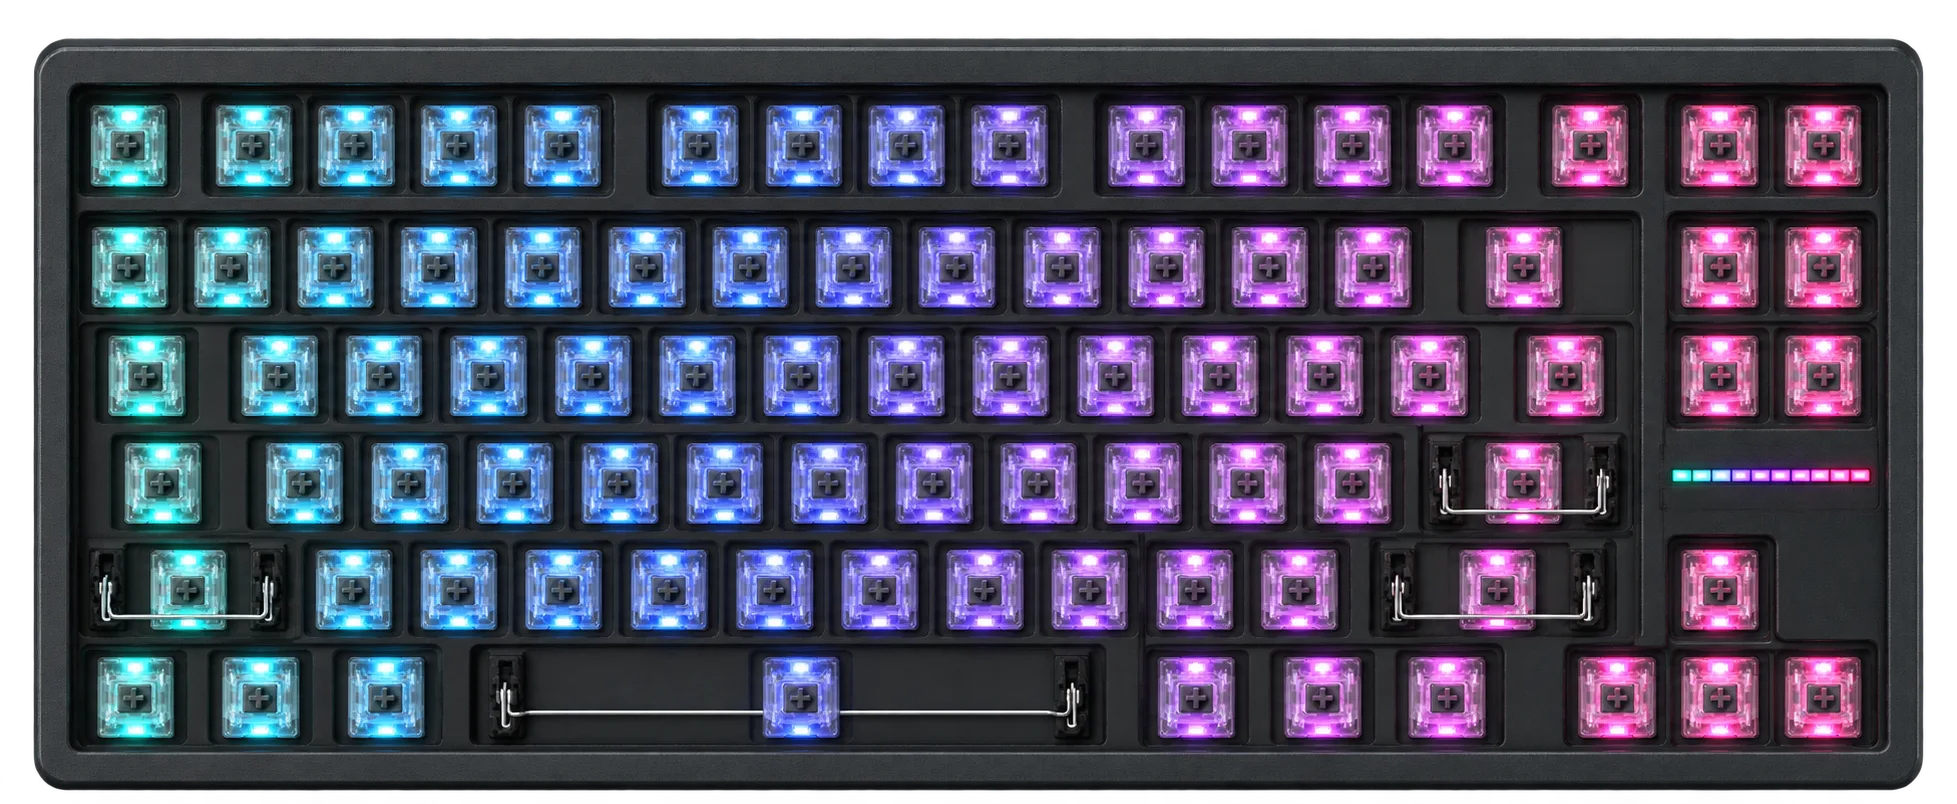
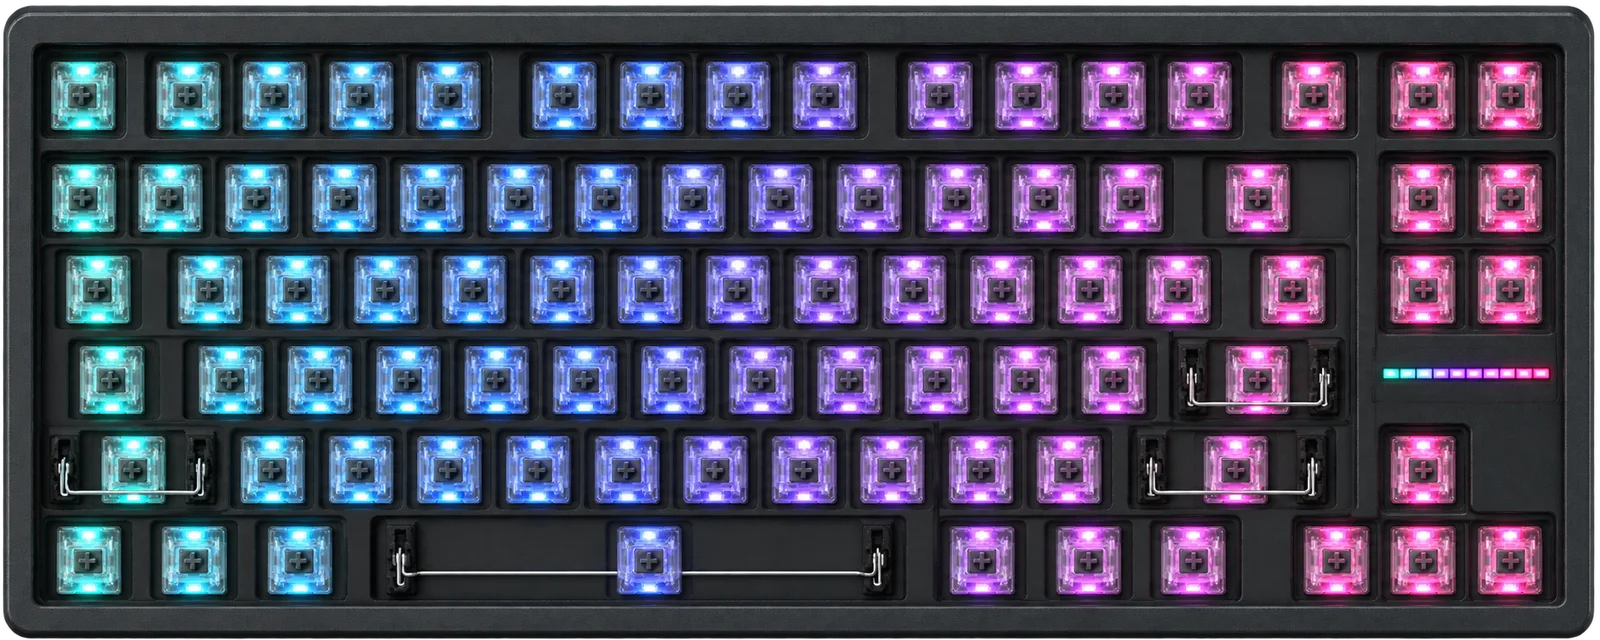
feat(fe): 키캡 피팅룸 키보드 3종 — Wooting 80HE(블랙·민트 스위치) · Keychron Q1 Max · Q2 Max
- public/assets/keyboards/assembly/boards.json 의 사진별 키캡 자리 좌표 사용, 사진은 키보드 부분만 잘라 webp
- 모델을 바꿔도 같은 자리의 키캡은 그대로 옮김

diff --git a/data/keyboards.ts b/data/keyboards.ts
@@ -1,13 +1,14 @@
 // 키캡 피팅룸 키보드 — 키캡을 뺀 RGB 스위치 사진 위에 키캡을 끼운다.
-// 좌표는 사진(1957×804) 기준 — public/assets/keyboards/wooting-80he-ansi/preview-layered.js 의 사진용 좌표와 같음 (1u = 104px)
+// 좌표: public/assets/keyboards/assembly/boards.json 의 키캡 자리(rect)를 사진 잘라낸 영역(crop) 기준 px로 옮김.
+// 공식 외형·ANSI 배열을 참고한 AI 재현 사진이라 실제 장착 치수가 아니에요.
 
 export interface KeyboardKey {
   id: string;
   label: string;
-  /** 키 칸의 왼쪽 위(px)와 너비(u) */
-  x: number;
-  y: number;
+  /** 키캡 너비(u) — 끼우기 규칙에 사용 */
   w: number;
+  /** 사진 안 키캡 자리 [x, y, 너비, 높이] (px) */
+  rect: [number, number, number, number];
 }
 
 export interface KeyboardSwitch { id: string; label: string; image: string; }
@@ -15,48 +16,133 @@ export interface KeyboardSwitch { id: string; label: string; image: string; }
 export interface KeyboardModel {
   id: string;
   name: string;
+  variant: string;
+  /** 잘라낸 사진 크기 (px) — rect의 기준 */
   width: number;
   height: number;
-  /** 1u 칸 크기와, 칸 안에서 키캡까지의 여백 */
-  unitPx: number;
-  insetPx: number;
   switches: KeyboardSwitch[];
   keys: KeyboardKey[];
 }
 
-const U = 104;
-const keys: KeyboardKey[] = [];
-const add = (id: string, label: string, x: number, y: number, w = 1) => keys.push({ id, label, x, y, w });
-/** 한 줄을 왼쪽(79px)부터 차례로 — [id, 각인, 너비] */
-const row = (y: number, items: [string, string, number][]) => {
-  let x = 79;
-  for (const [id, label, w] of items) { add(id, label, x, y, w); x += w * U; }
-};
+type RawKey = [string, string, number, number, number, number, number];
+const keys = (raw: RawKey[]): KeyboardKey[] => raw.map(([id, label, w, x, y, rw, rh]) => ({ id, label, w, rect: [x, y, rw, rh] }));
 
-add("Escape", "Esc", 79, 94);
-[201, 305, 409, 513, 648, 752, 856, 960, 1094, 1198, 1302, 1406].forEach((x, i) => add(`F${i + 1}`, `F${i + 1}`, x, 94));
-add("Mode", "Mode", 1540, 94); add("PrintScreen", "PrtSc", 1668, 94); add("Pause", "Pause", 1772, 94);
-row(216, [["Backquote", "`", 1], ...["1", "2", "3", "4", "5", "6", "7", "8", "9", "0"].map((d): [string, string, number] => [`Digit${d}`, d, 1]), ["Minus", "−", 1], ["Equal", "=", 1], ["Backspace", "Backspace", 2]]);
-row(320, [["Tab", "Tab", 1.5], ...[..."QWERTYUIOP"].map((c): [string, string, number] => [`Key${c}`, c, 1]), ["BracketLeft", "[", 1], ["BracketRight", "]", 1], ["Backslash", "\\", 1.5]]);
-row(424, [["CapsLock", "Caps", 1.75], ...[..."ASDFGHJKL"].map((c): [string, string, number] => [`Key${c}`, c, 1]), ["Semicolon", ";", 1], ["Quote", "'", 1], ["Enter", "Enter", 2.25]]);
-row(528, [["ShiftLeft", "Shift", 2.25], ...[..."ZXCVBNM"].map((c): [string, string, number] => [`Key${c}`, c, 1]), ["Comma", ",", 1], ["Period", ".", 1], ["Slash", "/", 1], ["ShiftRight", "Shift", 2.75]]);
-row(632, [["ControlLeft", "Ctrl", 1.25], ["MetaLeft", "Win", 1.25], ["AltLeft", "Alt", 1.25], ["Space", "", 6.25], ["AltRight", "Alt", 1.25], ["ControlRight", "Ctrl", 1.25], ["Fn", "Fn", 1.25]]);
-add("Insert", "Ins", 1668, 216); add("PageUp", "PgUp", 1772, 216); add("Delete", "Del", 1668, 320); add("PageDown", "PgDn", 1772, 320);
-add("ArrowUp", "↑", 1668, 528); add("ArrowLeft", "←", 1558, 632); add("ArrowDown", "↓", 1668, 632); add("ArrowRight", "→", 1772, 632);
-
-export const WOOTING_80HE: KeyboardModel = {
-  id: "wooting-80he-ansi",
-  name: "Wooting 80HE",
-  width: 1957,
-  height: 804,
-  unitPx: U,
-  insetPx: 3,
-  switches: [
-    { id: "black", label: "블랙 스위치", image: "/images/keyboards/wooting-80he-black.webp" },
-    { id: "mint", label: "민트 스위치", image: "/images/keyboards/wooting-80he-mint.webp" },
-  ],
-  keys,
-};
+export const KEYBOARDS: KeyboardModel[] = [
+  {
+    id: "wooting-80he",
+    name: "Wooting 80HE",
+    variant: "ANSI · 84키",
+    width: 1900,
+    height: 760,
+    switches: [{ id: "black", label: "블랙 스위치", image: "/images/keyboards/wooting-80he-black.webp" }, { id: "mint", label: "민트 스위치", image: "/images/keyboards/wooting-80he-mint.webp" }],
+    keys: keys([
+    ["Escape", "Esc", 1, 52.2, 67, 94, 94], ["F1", "F1", 1, 182.8, 67, 94, 94], ["F2", "F2", 1, 287.4, 67, 94, 94], ["F3", "F3", 1, 391.9, 67, 94, 94],
+    ["F4", "F4", 1, 496.4, 67, 94, 94], ["F5", "F5", 1, 627, 67, 94, 94], ["F6", "F6", 1, 731.5, 67, 94, 94], ["F7", "F7", 1, 836, 67, 94, 94],
+    ["F8", "F8", 1, 940.5, 67, 94, 94], ["F9", "F9", 1, 1071.1, 67, 94, 94], ["F10", "F10", 1, 1175.6, 67, 94, 94],
+    ["F11", "F11", 1, 1280.1, 67, 94, 94], ["F12", "F12", 1, 1384.6, 67, 94, 94], ["Mode", "Mode", 1, 1515.2, 67, 94, 94],
+    ["PrintScreen", "PrtSc", 1, 1645.8, 67, 94, 94], ["Pause", "Pause", 1, 1750.3, 67, 94, 94], ["Backquote", "`", 1, 52.2, 186, 94, 94],
+    ["Digit1", "1", 1, 156.7, 186, 94, 94], ["Digit2", "2", 1, 261.2, 186, 94, 94], ["Digit3", "3", 1, 365.7, 186, 94, 94],
+    ["Digit4", "4", 1, 470.2, 186, 94, 94], ["Digit5", "5", 1, 574.7, 186, 94, 94], ["Digit6", "6", 1, 679.2, 186, 94, 94],
+    ["Digit7", "7", 1, 783.7, 186, 94, 94], ["Digit8", "8", 1, 888.2, 186, 94, 94], ["Digit9", "9", 1, 992.7, 186, 94, 94],
+    ["Digit0", "0", 1, 1097.2, 186, 94, 94], ["Minus", "−", 1, 1201.7, 186, 94, 94], ["Equal", "=", 1, 1306.2, 186, 94, 94],
+    ["Backspace", "Backspace", 2, 1410.7, 186, 198.5, 94], ["Tab", "Tab", 1.5, 52.2, 297, 146.3, 94], ["KeyQ", "Q", 1, 209, 297, 94, 94],
+    ["KeyW", "W", 1, 313.5, 297, 94, 94], ["KeyE", "E", 1, 418, 297, 94, 94], ["KeyR", "R", 1, 522.5, 297, 94, 94], ["KeyT", "T", 1, 627, 297, 94, 94],
+    ["KeyY", "Y", 1, 731.5, 297, 94, 94], ["KeyU", "U", 1, 836, 297, 94, 94], ["KeyI", "I", 1, 940.5, 297, 94, 94],
+    ["KeyO", "O", 1, 1045, 297, 94, 94], ["KeyP", "P", 1, 1149.5, 297, 94, 94], ["BracketLeft", "[", 1, 1254, 297, 94, 94],
+    ["BracketRight", "]", 1, 1358.5, 297, 94, 94], ["Backslash", "\\", 1.5, 1463, 297, 146.3, 94], ["CapsLock", "Caps", 1.75, 52.2, 405, 172.4, 94],
+    ["KeyA", "A", 1, 235.1, 405, 94, 94], ["KeyS", "S", 1, 339.6, 405, 94, 94], ["KeyD", "D", 1, 444.1, 405, 94, 94],
+    ["KeyF", "F", 1, 548.6, 405, 94, 94], ["KeyG", "G", 1, 653.1, 405, 94, 94], ["KeyH", "H", 1, 757.6, 405, 94, 94],
+    ["KeyJ", "J", 1, 862.1, 405, 94, 94], ["KeyK", "K", 1, 966.6, 405, 94, 94], ["KeyL", "L", 1, 1071.1, 405, 94, 94],
+    ["Semicolon", ";", 1, 1175.6, 405, 94, 94], ["Quote", "'", 1, 1280.1, 405, 94, 94], ["Enter", "Enter", 2.25, 1384.6, 405, 224.7, 94],
+    ["ShiftLeft", "Shift", 2.25, 52.2, 511, 224.7, 94], ["KeyZ", "Z", 1, 287.4, 511, 94, 94], ["KeyX", "X", 1, 391.9, 511, 94, 94],
+    ["KeyC", "C", 1, 496.4, 511, 94, 94], ["KeyV", "V", 1, 600.9, 511, 94, 94], ["KeyB", "B", 1, 705.4, 511, 94, 94],
+    ["KeyN", "N", 1, 809.9, 511, 94, 94], ["KeyM", "M", 1, 914.4, 511, 94, 94], ["Comma", ",", 1, 1018.8, 511, 94, 94],
+    ["Period", ".", 1, 1123.3, 511, 94, 94], ["Slash", "/", 1, 1227.8, 511, 94, 94], ["ShiftRight", "Shift", 2.75, 1332.3, 511, 276.9, 94],
+    ["ControlLeft", "Ctrl", 1.25, 52.2, 618, 120.2, 94], ["MetaLeft", "Win", 1.25, 182.8, 618, 120.2, 94],
+    ["AltLeft", "Alt", 1.25, 313.5, 618, 120.2, 94], ["Space", "Space", 6.25, 444.1, 618, 642.7, 94],
+    ["AltRight", "Alt", 1.25, 1097.2, 618, 120.2, 94], ["ControlRight", "Ctrl", 1.25, 1227.8, 618, 120.2, 94],
+    ["Fn", "Fn", 1.25, 1358.5, 618, 120.2, 94], ["Insert", "Ins", 1, 1645.8, 186, 94, 94], ["PageUp", "PgUp", 1, 1750.3, 186, 94, 94],
+    ["Delete", "Del", 1, 1645.8, 297, 94, 94], ["PageDown", "PgDn", 1, 1750.3, 297, 94, 94], ["ArrowUp", "↑", 1, 1645.8, 511, 94, 94],
+    ["ArrowLeft", "←", 1, 1541.3, 618, 94, 94], ["ArrowDown", "↓", 1, 1645.8, 618, 94, 94], ["ArrowRight", "→", 1, 1750.3, 618, 94, 94],
+    ]),
+  },
+  {
+    id: "keychron-q1-max",
+    name: "Keychron Q1 Max",
+    variant: "ANSI · 81키 + 노브",
+    width: 1368,
+    height: 612,
+    switches: [{ id: "default", label: "기본", image: "/images/keyboards/keychron-q1-max.webp" }],
+    keys: keys([
+    ["Backquote", "`", 1, 38.9, 162.4, 71.1, 71.1], ["Digit1", "1", 1, 117.9, 162.4, 71.1, 71.1], ["Digit2", "2", 1, 196.9, 162.4, 71.1, 71.1],
+    ["Digit3", "3", 1, 275.9, 162.4, 71.1, 71.1], ["Digit4", "4", 1, 354.9, 162.4, 71.1, 71.1], ["Digit5", "5", 1, 433.9, 162.4, 71.1, 71.1],
+    ["Digit6", "6", 1, 513, 162.4, 71.1, 71.1], ["Digit7", "7", 1, 592, 162.4, 71.1, 71.1], ["Digit8", "8", 1, 671, 162.4, 71.1, 71.1],
+    ["Digit9", "9", 1, 750, 162.4, 71.1, 71.1], ["Digit0", "0", 1, 829, 162.4, 71.1, 71.1], ["Minus", "−", 1, 908, 162.4, 71.1, 71.1],
+    ["Equal", "=", 1, 987, 162.4, 71.1, 71.1], ["Backspace", "Backspace", 2, 1066, 162.4, 150.1, 71.1], ["Tab", "Tab", 1.5, 39, 241.4, 110.6, 71.1],
+    ["KeyQ", "Q", 1, 157.4, 241.4, 71.1, 71.1], ["KeyW", "W", 1, 236.4, 241.4, 71.1, 71.1], ["KeyE", "E", 1, 315.4, 241.4, 71.1, 71.1],
+    ["KeyR", "R", 1, 394.4, 241.4, 71.1, 71.1], ["KeyT", "T", 1, 473.5, 241.4, 71.1, 71.1], ["KeyY", "Y", 1, 552.5, 241.4, 71.1, 71.1],
+    ["KeyU", "U", 1, 631.5, 241.4, 71.1, 71.1], ["KeyI", "I", 1, 710.5, 241.4, 71.1, 71.1], ["KeyO", "O", 1, 789.5, 241.4, 71.1, 71.1],
+    ["KeyP", "P", 1, 868.5, 241.4, 71.1, 71.1], ["BracketLeft", "[", 1, 947.5, 241.4, 71.1, 71.1], ["BracketRight", "]", 1, 1026.5, 241.4, 71.1, 71.1],
+    ["Backslash", "\\", 1.5, 1105.5, 241.4, 110.6, 71.1], ["CapsLock", "Caps", 1.75, 39, 319.5, 130.3, 71.1],
+    ["KeyA", "A", 1, 177.2, 319.5, 71.1, 71.1], ["KeyS", "S", 1, 256.2, 319.5, 71.1, 71.1], ["KeyD", "D", 1, 335.2, 319.5, 71.1, 71.1],
+    ["KeyF", "F", 1, 414.2, 319.5, 71.1, 71.1], ["KeyG", "G", 1, 493.2, 319.5, 71.1, 71.1], ["KeyH", "H", 1, 572.2, 319.5, 71.1, 71.1],
+    ["KeyJ", "J", 1, 651.2, 319.5, 71.1, 71.1], ["KeyK", "K", 1, 730.2, 319.5, 71.1, 71.1], ["KeyL", "L", 1, 809.2, 319.5, 71.1, 71.1],
+    ["Semicolon", ";", 1, 888.2, 319.5, 71.1, 71.1], ["Quote", "'", 1, 967.2, 319.5, 71.1, 71.1], ["Enter", "Enter", 2.25, 1046.2, 319.5, 169.8, 71.1],
+    ["ShiftLeft", "Shift", 2.25, 39, 399.5, 169.8, 71.1], ["KeyZ", "Z", 1, 216.7, 399.5, 71.1, 71.1], ["KeyX", "X", 1, 295.7, 399.5, 71.1, 71.1],
+    ["KeyC", "C", 1, 374.7, 399.5, 71.1, 71.1], ["KeyV", "V", 1, 453.7, 399.5, 71.1, 71.1], ["KeyB", "B", 1, 532.7, 399.5, 71.1, 71.1],
+    ["KeyN", "N", 1, 611.7, 399.5, 71.1, 71.1], ["KeyM", "M", 1, 690.7, 399.5, 71.1, 71.1], ["Comma", ",", 1, 769.7, 399.5, 71.1, 71.1],
+    ["Period", ".", 1, 848.7, 399.5, 71.1, 71.1], ["Slash", "/", 1, 927.7, 399.5, 71.1, 71.1],
+    ["ShiftRight", "Shift", 1.75, 1006.7, 399.5, 130.3, 71.1], ["Escape", "Esc", 1, 38.9, 59.4, 71.1, 71.1], ["F1", "F1", 1, 137.7, 59.4, 71.1, 71.1],
+    ["F2", "F2", 1, 216.7, 59.4, 71.1, 71.1], ["F3", "F3", 1, 295.7, 59.4, 71.1, 71.1], ["F4", "F4", 1, 374.7, 59.4, 71.1, 71.1],
+    ["F5", "F5", 1, 473.5, 59.4, 71.1, 71.1], ["F6", "F6", 1, 552.5, 59.4, 71.1, 71.1], ["F7", "F7", 1, 631.5, 59.4, 71.1, 71.1],
+    ["F8", "F8", 1, 710.5, 59.4, 71.1, 71.1], ["F9", "F9", 1, 809.2, 59.4, 71.1, 71.1], ["F10", "F10", 1, 888.2, 59.4, 71.1, 71.1],
+    ["F11", "F11", 1, 967.2, 59.4, 71.1, 71.1], ["F12", "F12", 1, 1046.2, 59.4, 71.1, 71.1], ["Delete", "Del", 1, 1145, 59.4, 71.1, 71.1],
+    ["PageUp", "PgUp", 1, 1250.5, 162.4, 71.1, 71.1], ["PageDown", "PgDn", 1, 1250.5, 241.4, 71.1, 71.1],
+    ["Home", "Home", 1, 1250.5, 319.5, 71.1, 71.1], ["ControlLeft", "Ctrl", 1.25, 39, 478.5, 90.8, 71.1],
+    ["MetaLeft", "Win", 1.25, 137.7, 478.5, 90.8, 71.1], ["AltLeft", "Alt", 1.25, 236.4, 478.5, 90.8, 71.1],
+    ["Space", "Space", 6.25, 335.2, 478.5, 485.9, 71.1], ["AltRight", "Alt", 1, 829, 478.5, 71.1, 71.1], ["Fn", "Fn", 1, 908, 478.5, 71.1, 71.1],
+    ["ControlRight", "Ctrl", 1, 987, 478.5, 71.1, 71.1], ["ArrowUp", "↑", 1, 1170.5, 424.5, 71.1, 71.1],
+    ["ArrowLeft", "←", 1, 1091.5, 499.5, 71.1, 71.1], ["ArrowDown", "↓", 1, 1170.5, 499.5, 71.1, 71.1],
+    ["ArrowRight", "→", 1, 1249.5, 499.5, 71.1, 71.1],
+    ]),
+  },
+  {
+    id: "keychron-q2-max",
+    name: "Keychron Q2 Max",
+    variant: "ANSI · 66키 + 노브",
+    width: 1684,
+    height: 636,
+    switches: [{ id: "default", label: "기본", image: "/images/keyboards/keychron-q2-max.webp" }],
+    keys: keys([
+    ["Escape", "Esc", 1, 57.8, 75.6, 86.9, 86.9], ["Digit1", "1", 1, 154.3, 75.6, 86.9, 86.9], ["Digit2", "2", 1, 250.8, 75.6, 86.9, 86.9],
+    ["Digit3", "3", 1, 347.3, 75.6, 86.9, 86.9], ["Digit4", "4", 1, 443.8, 75.6, 86.9, 86.9], ["Digit5", "5", 1, 540.3, 75.6, 86.9, 86.9],
+    ["Digit6", "6", 1, 636.8, 75.6, 86.9, 86.9], ["Digit7", "7", 1, 733.3, 75.6, 86.9, 86.9], ["Digit8", "8", 1, 829.8, 75.6, 86.9, 86.9],
+    ["Digit9", "9", 1, 926.3, 75.6, 86.9, 86.9], ["Digit0", "0", 1, 1022.8, 75.6, 86.9, 86.9], ["Minus", "−", 1, 1119.3, 75.6, 86.9, 86.9],
+    ["Equal", "=", 1, 1215.8, 75.6, 86.9, 86.9], ["Backspace", "Backspace", 2, 1312.3, 75.6, 183.3, 86.9],
+    ["Tab", "Tab", 1.5, 57.8, 174.6, 135.1, 86.9], ["KeyQ", "Q", 1, 202.6, 174.6, 86.9, 86.9], ["KeyW", "W", 1, 299.1, 174.6, 86.9, 86.9],
+    ["KeyE", "E", 1, 395.6, 174.6, 86.9, 86.9], ["KeyR", "R", 1, 492.1, 174.6, 86.9, 86.9], ["KeyT", "T", 1, 588.6, 174.6, 86.9, 86.9],
+    ["KeyY", "Y", 1, 685.1, 174.6, 86.9, 86.9], ["KeyU", "U", 1, 781.6, 174.6, 86.9, 86.9], ["KeyI", "I", 1, 878.1, 174.6, 86.9, 86.9],
+    ["KeyO", "O", 1, 974.6, 174.6, 86.9, 86.9], ["KeyP", "P", 1, 1071.1, 174.6, 86.9, 86.9], ["BracketLeft", "[", 1, 1167.6, 174.6, 86.9, 86.9],
+    ["BracketRight", "]", 1, 1264.1, 174.6, 86.9, 86.9], ["Backslash", "\\", 1.5, 1360.6, 174.6, 135.1, 86.9],
+    ["CapsLock", "Caps", 1.75, 57.8, 271.6, 159.2, 86.9], ["KeyA", "A", 1, 226.7, 271.6, 86.9, 86.9], ["KeyS", "S", 1, 323.2, 271.6, 86.9, 86.9],
+    ["KeyD", "D", 1, 419.7, 271.6, 86.9, 86.9], ["KeyF", "F", 1, 516.2, 271.6, 86.9, 86.9], ["KeyG", "G", 1, 612.7, 271.6, 86.9, 86.9],
+    ["KeyH", "H", 1, 709.2, 271.6, 86.9, 86.9], ["KeyJ", "J", 1, 805.7, 271.6, 86.9, 86.9], ["KeyK", "K", 1, 902.2, 271.6, 86.9, 86.9],
+    ["KeyL", "L", 1, 998.7, 271.6, 86.9, 86.9], ["Semicolon", ";", 1, 1095.2, 271.6, 86.9, 86.9], ["Quote", "'", 1, 1191.7, 271.6, 86.9, 86.9],
+    ["Enter", "Enter", 2.25, 1288.2, 271.6, 207.5, 86.9], ["ShiftLeft", "Shift", 2.25, 57.8, 368.6, 207.5, 86.9],
+    ["KeyZ", "Z", 1, 274.9, 368.6, 86.9, 86.9], ["KeyX", "X", 1, 371.4, 368.6, 86.9, 86.9], ["KeyC", "C", 1, 468, 368.6, 86.9, 86.9],
+    ["KeyV", "V", 1, 564.5, 368.6, 86.9, 86.9], ["KeyB", "B", 1, 661, 368.6, 86.9, 86.9], ["KeyN", "N", 1, 757.5, 368.6, 86.9, 86.9],
+    ["KeyM", "M", 1, 854, 368.6, 86.9, 86.9], ["Comma", ",", 1, 950.5, 368.6, 86.9, 86.9], ["Period", ".", 1, 1047, 368.6, 86.9, 86.9],
+    ["Slash", "/", 1, 1143.5, 368.6, 86.9, 86.9], ["ShiftRight", "Shift", 1.75, 1240, 368.6, 159.2, 86.9],
+    ["Delete", "Del", 1, 1537.6, 174.6, 86.9, 86.9], ["Home", "Home", 1, 1537.6, 271.6, 86.9, 86.9],
+    ["ControlLeft", "Ctrl", 1.25, 57.8, 466.6, 111, 86.9], ["MetaLeft", "Win", 1.25, 178.4, 466.6, 111, 86.9],
+    ["AltLeft", "Alt", 1.25, 299.1, 466.6, 111, 86.9], ["Space", "Space", 6.25, 419.7, 466.6, 593.5, 86.9],
+    ["AltRight", "Alt", 1, 1022.8, 466.6, 86.9, 86.9], ["Fn", "Fn", 1, 1119.3, 466.6, 86.9, 86.9],
+    ["ControlRight", "Ctrl", 1, 1215.8, 466.6, 86.9, 86.9], ["ArrowUp", "↑", 1, 1438.6, 398.6, 86.9, 86.9],
+    ["ArrowLeft", "←", 1, 1340.6, 496.6, 86.9, 86.9], ["ArrowDown", "↓", 1, 1438.6, 496.6, 86.9, 86.9],
+    ["ArrowRight", "→", 1, 1536.6, 496.6, 86.9, 86.9],
+    ]),
+  },
+];
 
 /** 방향키 세트가 들어가는 자리 (세트 그림 1~4 순서) */
 export const ARROW_KEYS = ["ArrowUp", "ArrowLeft", "ArrowDown", "ArrowRight"] as const;

diff --git a/components/keycap/KeycapFittingRoom.tsx b/components/keycap/KeycapFittingRoom.tsx
@@ -6,7 +6,7 @@ import { useRouter } from "next/navigation";
 import { useAuth } from "@/components/AuthProvider";
 import { useCart } from "@/components/CartProvider";
 import { KEYCAPS, KEYCAP_KIND_LABEL, KEYCAP_TONES, type KeycapItem, type KeycapKind, type KeycapTone } from "@/data/keycaps";
-import { ARROW_KEYS, WOOTING_80HE as BOARD } from "@/data/keyboards";
+import { ARROW_KEYS, KEYBOARDS } from "@/data/keyboards";
 import { keycapImage, placeKeycap, removeKeycap, trayKeycaps, withObject, type Placement } from "@/utils/keycapFit";
 import { safeNextPath } from "@/utils/safeNextPath";
 
@@ -51,7 +51,8 @@ export default function KeycapFittingRoom({ current, productName, productId }: K
   const { add } = useCart();
   const [base, setBase] = useState<BaseKey>("none");
   const [customColor, setCustomColor] = useState("#6ef2d6");
-  const [switchId, setSwitchId] = useState(BOARD.switches[0].id);
+  const [modelId, setModelId] = useState(KEYBOARDS[0].id);
+  const [switchId, setSwitchId] = useState(KEYBOARDS[0].switches[0].id);
   const [placed, setPlaced] = useState<Placement>(() => current ? placeKeycap({}, current, current.kind === "space" ? { id: "Space", label: "", w: 6.25 } : { id: "Escape", label: "Esc", w: 1 }).placed : {});
   const [view, setView] = useState<"before" | "after">("after");
   const [kind, setKind] = useState<KeycapKind | "all">("all");
@@ -96,11 +97,21 @@ export default function KeycapFittingRoom({ current, productName, productId }: K
 
   const byId = (id: string) => KEYCAPS.find((item) => item.id === id);
   const baseColor = base === "custom" ? customColor : BASES[base].color;
+  const BOARD = KEYBOARDS.find((item) => item.id === modelId) ?? KEYBOARDS[0];
   const board = BOARD.switches.find((item) => item.id === switchId) ?? BOARD.switches[0];
   const usedIds = useMemo(() => [...new Set(Object.values(placed))], [placed]);
   const used = usedIds.map(byId).filter((item): item is KeycapItem => Boolean(item));
   const tray = trayKeycaps(KEYCAPS, current?.id ?? null, kind, query, tone);
 
+  function changeModel(id: string) {
+    const model = KEYBOARDS.find((item) => item.id === id);
+    if (!model) return;
+    const ids = new Set(model.keys.map((key) => key.id));
+    setModelId(model.id);
+    setSwitchId(model.switches[0].id);
+    setPlaced((current) => Object.fromEntries(Object.entries(current).filter(([keyId]) => ids.has(keyId))));
+    setMessage(`${model.name} 키보드로 바꿨어요. 같은 자리에 끼운 키캡은 그대로 옮겨요.`);
+  }
   function place(itemId: string | null, keyId: string) {
     const item = itemId ? byId(itemId) : undefined;
     const key = BOARD.keys.find((k) => k.id === keyId);
@@ -178,11 +189,14 @@ export default function KeycapFittingRoom({ current, productName, productId }: K
       <section aria-label="내 키보드" className="pixel-panel flex flex-wrap items-center gap-x-5 gap-y-3 p-4 phone-landscape:col-span-2 phone-landscape:gap-y-2 phone-landscape:p-2.5">
         <span className="font-pixel text-xs text-mint">STEP 1 · MY KEYBOARD</span>
         <label className="flex items-center gap-2 text-sm font-bold">모델
-          <select id="keycap-board" name="board" className="pixel-input h-9 py-0 text-sm" value={BOARD.id} onChange={() => undefined}><option value={BOARD.id}>{BOARD.name}</option></select>
+          <select id="keycap-board" name="board" className="pixel-input h-9 py-0 text-sm" value={BOARD.id} onChange={(event) => changeModel(event.target.value)}>
+            {KEYBOARDS.map((model) => <option key={model.id} value={model.id}>{model.name} · {model.variant}</option>)}
+          </select>
         </label>
-        <div role="group" aria-label="스위치" className="segmented h-9 text-xs font-bold">
-          {BOARD.switches.map((item) => <button key={item.id} type="button" aria-pressed={switchId === item.id} onClick={() => setSwitchId(item.id)}>{item.label}</button>)}
-        </div>
+        {/* 스위치 사진이 여러 장인 모델만 */}
+        {BOARD.switches.length > 1 && <div role="group" aria-label="스위치" className="segmented h-9 text-xs font-bold">
+          {BOARD.switches.map((item) => <button key={item.id} type="button" aria-pressed={board.id === item.id} onClick={() => setSwitchId(item.id)}>{item.label}</button>)}
+        </div>}
         <div role="group" aria-label="나머지 키" className="flex items-center gap-2"><span className="text-sm font-bold">나머지 키</span>
           {(Object.keys(BASES) as BaseKey[]).filter((key) => key !== "custom").map((key) => <button key={key} type="button" aria-pressed={base === key} aria-label={key === "none" ? "나머지 키 비우기 (스위치 보기)" : `나머지 키를 ${BASES[key].label} 키캡으로`} title={BASES[key].label}
             onClick={() => setBase(key)} className={`size-8 rounded-md border-2 ${key === "none" ? "border-dashed border-sub" : "border-frame"} ${base === key ? "outline-3 outline-offset-2 outline-mint" : ""}`} style={{ background: key === "none" ? "transparent" : BASES[key].color }} />)}
@@ -216,7 +230,7 @@ export default function KeycapFittingRoom({ current, productName, productId }: K
               const item = placed[key.id] ? byId(placed[key.id]) : undefined;
               const show = item && view === "after";
               const fill = !show && base !== "none";
-              const inset = BOARD.insetPx;
+              const [rx, ry, rw, rh] = key.rect;
               return <button key={key.id} type="button" aria-label={`${key.label || "스페이스바"}${item ? ` — ${item.name} 끼움, 눌러서 빼기` : " 자리"}`}
                 onClick={() => clickKey(key.id)}
                 onDragOver={(event) => { event.preventDefault(); if (over !== key.id) setOver(key.id); }}
@@ -224,8 +238,7 @@ export default function KeycapFittingRoom({ current, productName, productId }: K
                 onDrop={(event) => { event.preventDefault(); place(event.dataTransfer.getData("text/plain") || picked, key.id); }}
                 className={`absolute cursor-pointer rounded-[6px] ${over === key.id ? "outline-3 outline-dashed outline-lime" : picked && !item ? "outline-2 outline-mint/70" : "hover:outline-2 hover:outline-white/40"}`}
                 style={{
-                  left: pct(key.x + inset, BOARD.width), top: pct(key.y + inset, BOARD.height),
-                  width: pct(key.w * BOARD.unitPx - 2 * inset, BOARD.width), height: pct(BOARD.unitPx - 2 * inset, BOARD.height),
+                  left: pct(rx, BOARD.width), top: pct(ry, BOARD.height), width: pct(rw, BOARD.width), height: pct(rh, BOARD.height),
                 }}>
                 {/* 기본 키캡 — 밝은 무각 키캡 질감에 색을 곱해 칠하고, 긴 키는 경사면을 그대로 둔 채 가운데만 늘림 */}
                 {fill && <span className="absolute inset-0 isolate [container-type:size]">
